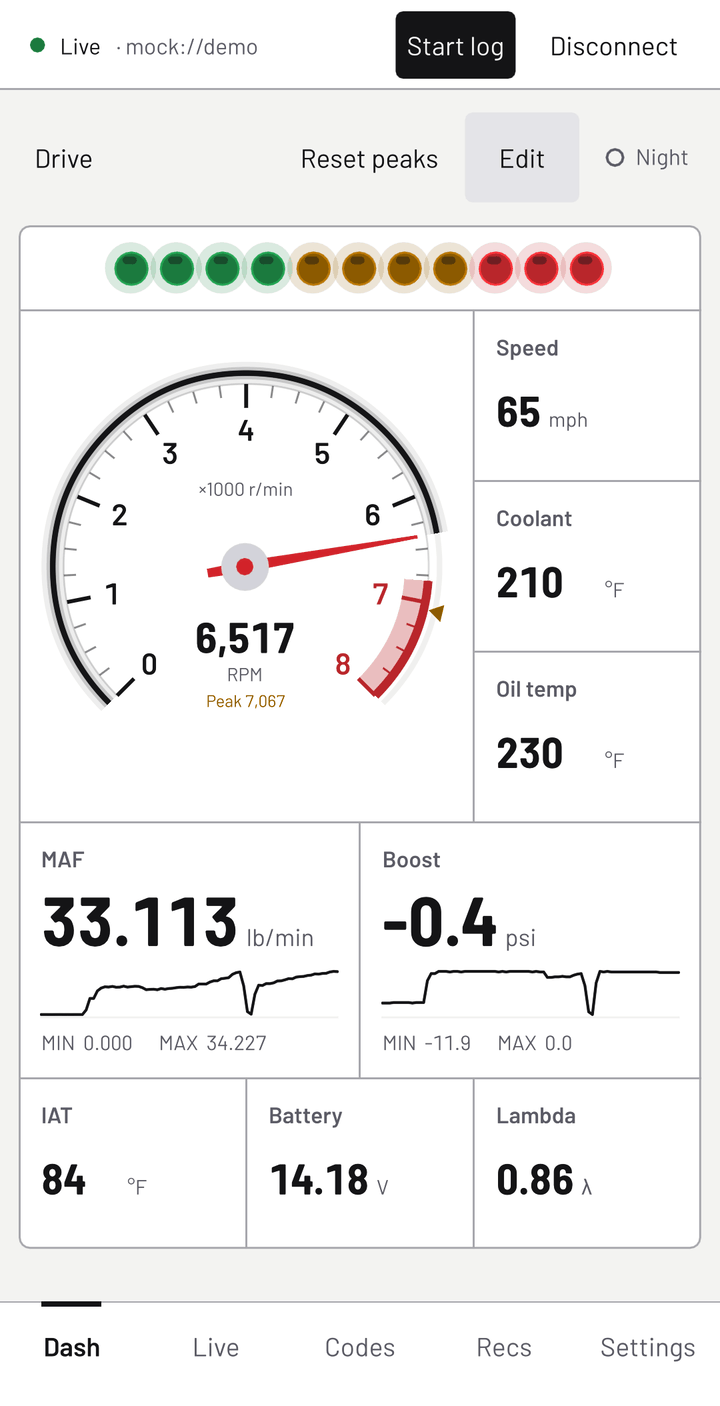
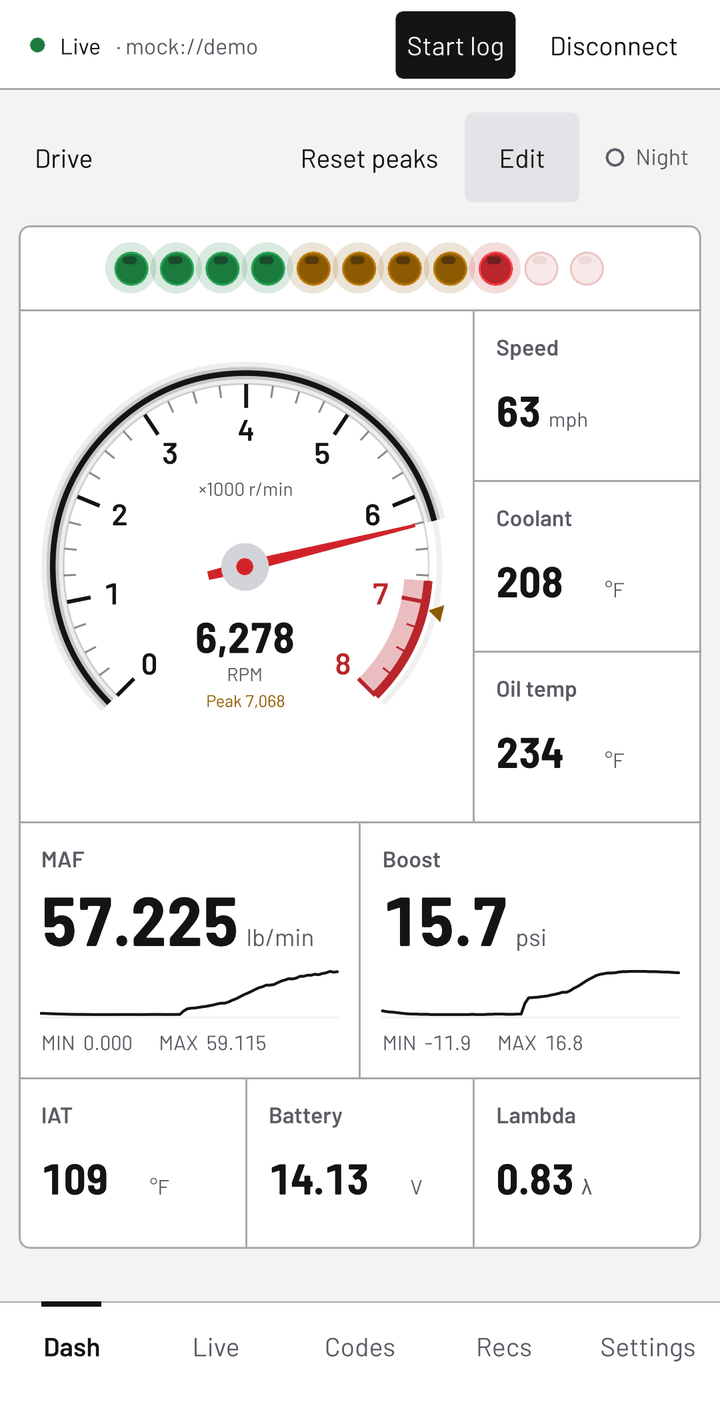
docs: lead the README with the viewer's panes over a pull
The README's desktop shot is the Recordings viewer on a logged pull, rpm, throttle, lambda and boost in a pane each, the cursor at peak boost, saved as viewer.png; live.png stays Live's shot. The phone layout's Dashboard in each look and the drive view are retaken in a pull with the turbo's boost showing, and their alt texts carry rpm and boost.

diff --git a/docs/screenshots.md b/docs/screenshots.md
@@ -60,6 +60,12 @@ readiness monitors, each done this drive and complete since the clear.*
 *A recording in the viewer: rpm and speed through the first loop's
 pulls, coolant and oil warming from the cold start.*
 
+![The viewer on a pull, maximized: rpm, throttle, lambda and boost in a pane each, the cursor at peak boost at 18.4 s](images/viewer.png)
+
+*One pull, the chart maximized: from before the throttle opens through
+the limiter, with the cursor at peak boost (16.7 psi, lambda 0.82, rpm
+climbing).*
+
 ### Link health
 
 ![Live over the fake J2534 driver with every request refused: the "Requests failing" status and banner, and the chart waiting for data](images/desktop-link-health.png)
@@ -80,20 +86,20 @@ pulls, coolant and oil warming from the cold start.*
 
 | Dark | Night, amber | Night, red |
 |---|---|---|
-| [![The phone layout's Dashboard in a pull at 6,762 rpm](images/phone-dashboard-dark.png)](images/phone-dashboard-dark.png) | [![The phone layout's Dashboard in Night's amber style at 6,609 rpm](images/phone-dashboard-amber.png)](images/phone-dashboard-amber.png) | [![The phone layout's Dashboard in Night's red style at 6,568 rpm](images/phone-dashboard-night.png)](images/phone-dashboard-night.png) |
+| [![The phone layout's Dashboard in a pull at 6,335 rpm, boost 15.7 psi](images/phone-dashboard-dark.png)](images/phone-dashboard-dark.png) | [![The phone layout's Dashboard in Night's amber style at 6,863 rpm, boost 9.0 psi](images/phone-dashboard-amber.png)](images/phone-dashboard-amber.png) | [![The phone layout's Dashboard in Night's red style at 6,252 rpm, boost 15.8 psi](images/phone-dashboard-night.png)](images/phone-dashboard-night.png) |
 
 *The phone's joined panel: the tach beside speed, coolant and oil, MAF
 and boost with their traces, then intake air, battery and lambda.*
 
 ### Dashboard in Light
 
-<a href="images/phone-dashboard-light.png"><img src="images/phone-dashboard-light.png" alt="The phone layout's Dashboard in the Light look at 6,517 rpm" width="240"></a>
+<a href="images/phone-dashboard-light.png"><img src="images/phone-dashboard-light.png" alt="The phone layout's Dashboard in the Light look at 6,278 rpm, boost 15.7 psi" width="240"></a>
 
 *Light: dark text on white, for the sun (Settings, Display, Look).*
 
 ### Drive view
 
-<a href="images/phone-drive-view.png"><img src="images/phone-drive-view.png" alt="The phone layout's drive view: every bar hidden, the gauges filling the screen in a pull at 6,510 rpm" width="240"></a>
+<a href="images/phone-drive-view.png"><img src="images/phone-drive-view.png" alt="The phone layout's drive view: every bar hidden, the gauges filling the screen in a pull at 6,044 rpm, boost 16.0 psi" width="240"></a>
 
 *The drive view: the status line alone at the top and the panel filling
 the screen; a tap raises the controls from the bottom with the tab bar.*

diff --git a/README.md b/README.md
@@ -44,7 +44,7 @@ Havne reads a car through J2534, ELM327 or SocketCAN adapters on Windows, Linux 
 </thead>
 <tbody>
 <tr>
-<td><a href="docs/images/phone-drive-view.png"><img src="docs/images/phone-drive-view.png" alt="The phone layout's drive view: every bar hidden, the gauges filling the screen in a pull at 6,510 rpm" width="240"></a></td>
+<td><a href="docs/images/phone-drive-view.png"><img src="docs/images/phone-drive-view.png" alt="The phone layout's drive view: every bar hidden, the gauges filling the screen in a pull at 6,044 rpm, boost 16.0 psi" width="240"></a></td>
 <td><a href="docs/images/phone-codes.png"><img src="docs/images/phone-codes.png" alt="Codes on the test phone: the inspection verdict, the check-engine light, and stored, pending and permanent codes with their titles" width="240"></a></td>
 <td><a href="docs/images/phone-dashboard-night.png"><img src="docs/images/phone-dashboard-night.png" alt="The phone layout's Dashboard with Night on in red" width="240"></a></td>
 </tr>
@@ -56,9 +56,9 @@ Havne reads a car through J2534, ELM327 or SocketCAN adapters on Windows, Linux 
 </tbody>
 </table>
 
-![Live on the desktop: rpm, speed, MAF and lambda through a 3rd-gear pull onto the limiter](docs/images/live.png)
+![The Recordings viewer on a log of a pull: rpm, throttle, lambda and boost in a pane each, the cursor at peak boost reading 4,992 rpm, lambda 0.82 and 16.7 psi](docs/images/viewer.png)
 
-*Live on the desktop: a 3rd-gear pull onto the limiter, lambda swinging lean on each fuel cut.*
+*A pull in the Recordings viewer: each unit in its own pane on one time axis, the cursor's values beside them, lambda going lean on the limiter's fuel cut.*
 
 Every page on the desktop and the phone, in Dark and in Night's amber and red: [docs/screenshots.md](docs/screenshots.md).
 
